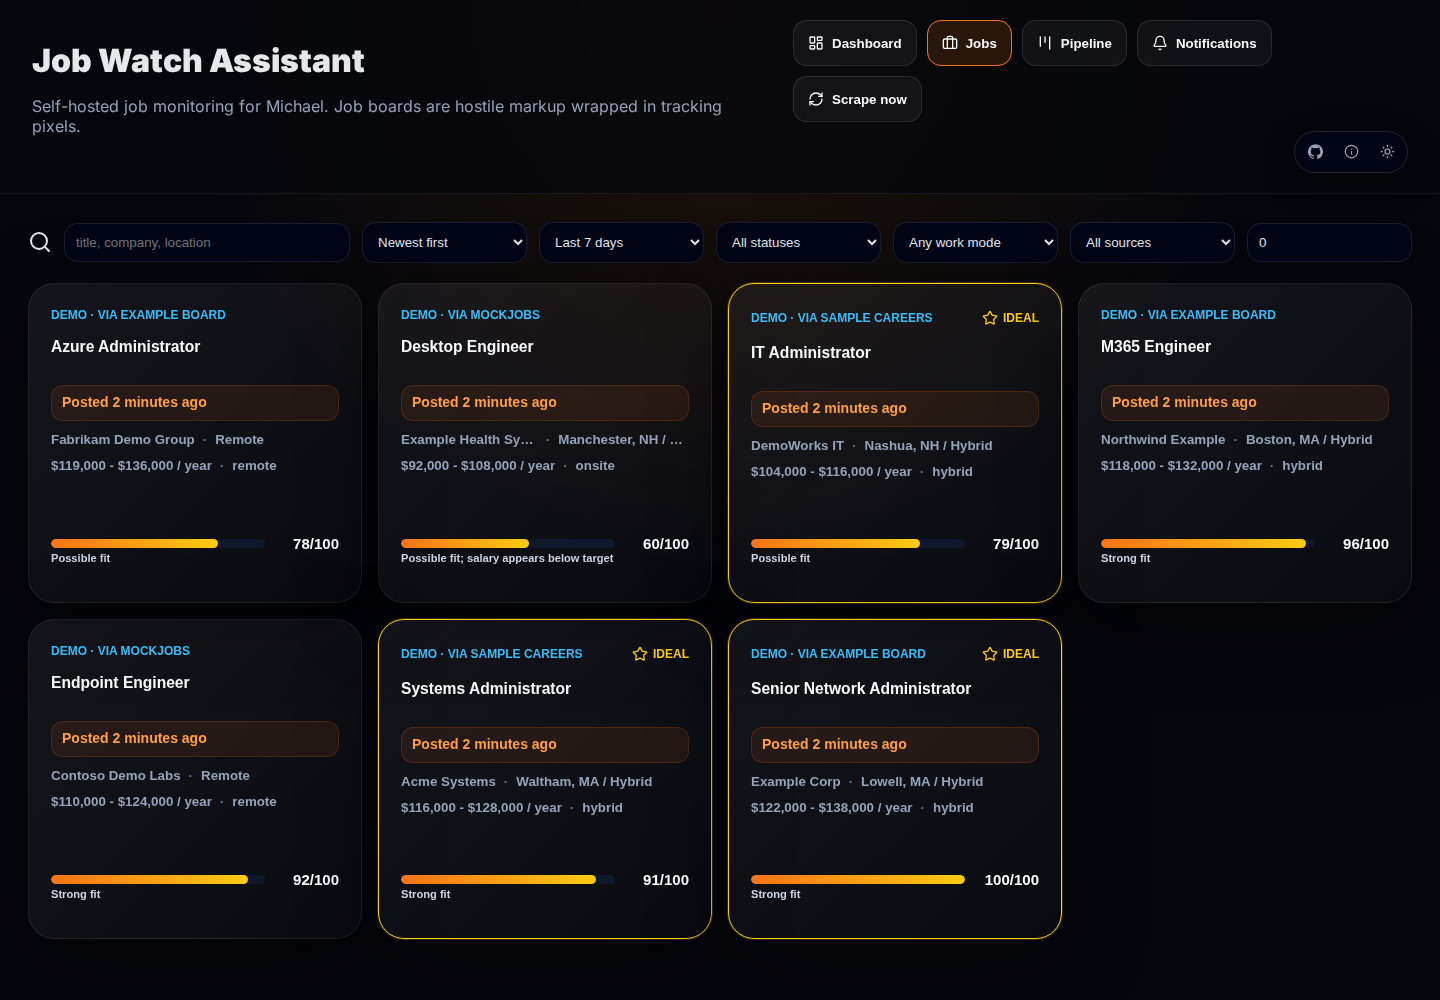
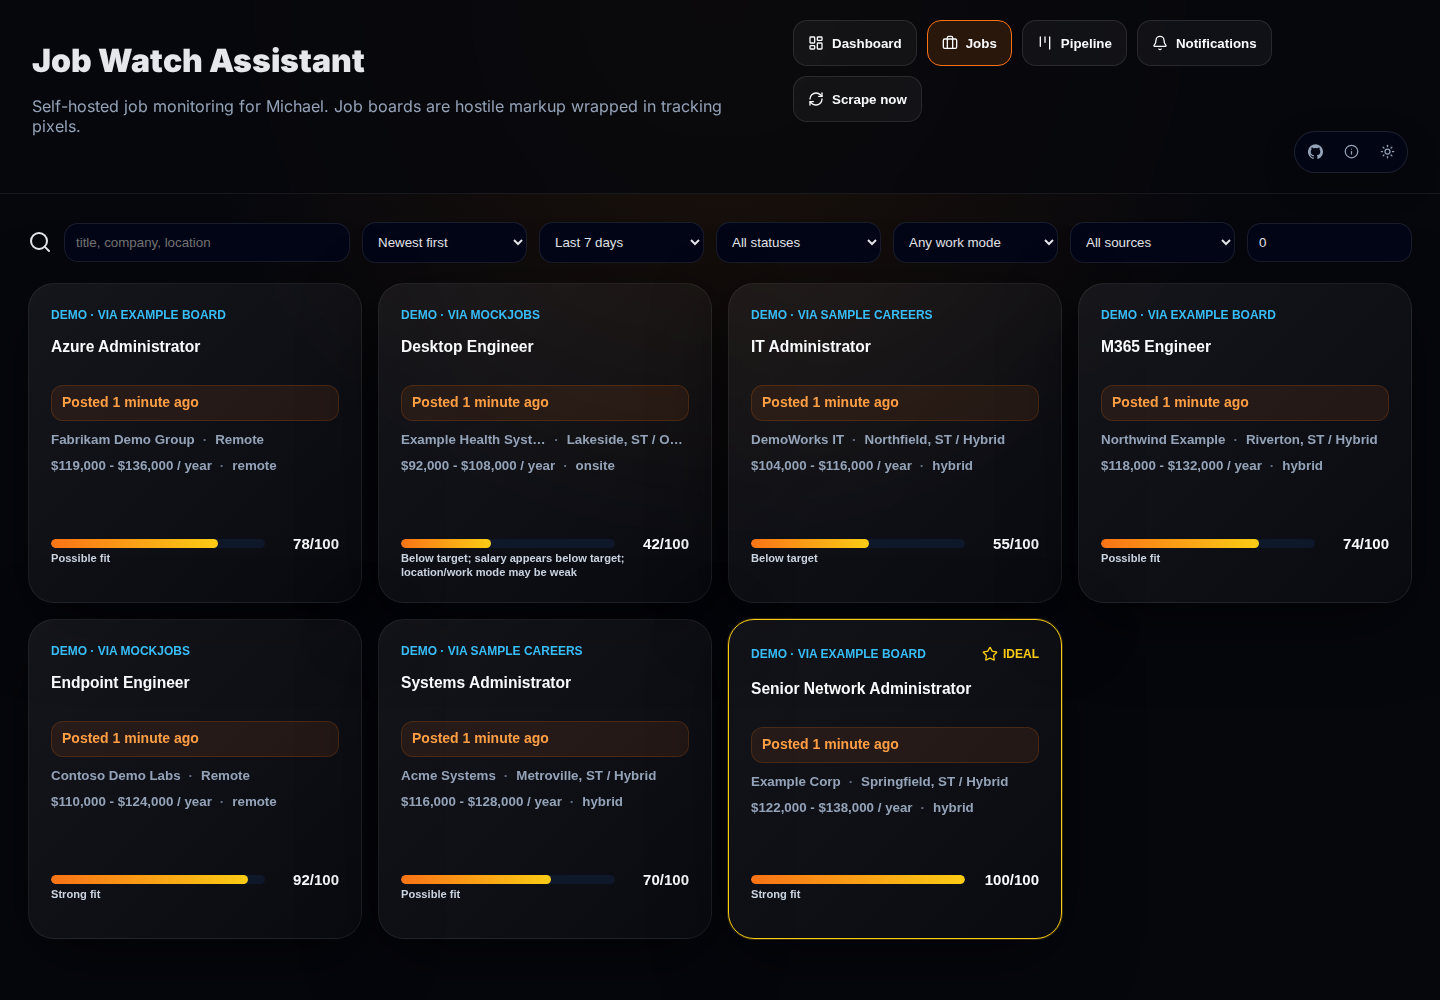
Scrub location references and render README screenshots

diff --git a/frontend/src/main.jsx b/frontend/src/main.jsx
@@ -13,7 +13,7 @@ function useSuiteTheme(){const[theme,setThemeState]=useState(()=>localStorage.ge
 function GithubMark(){return <svg viewBox="0 0 24 24" aria-hidden="true"><path fill="currentColor" d="M12 .5a12 12 0 0 0-3.79 23.39c.6.11.82-.26.82-.58v-2.03c-3.34.73-4.04-1.61-4.04-1.61-.55-1.39-1.34-1.76-1.34-1.76-1.09-.75.08-.73.08-.73 1.2.08 1.84 1.24 1.84 1.24 1.07 1.83 2.81 1.3 3.5.99.11-.78.42-1.3.76-1.6-2.67-.31-5.47-1.34-5.47-5.94 0-1.31.47-2.38 1.24-3.22-.12-.3-.54-1.53.12-3.18 0 0 1.01-.32 3.3 1.23a11.5 11.5 0 0 1 6 0c2.28-1.55 3.29-1.23 3.29-1.23.66 1.65.24 2.88.12 3.18.77.84 1.23 1.91 1.23 3.22 0 4.61-2.8 5.63-5.48 5.93.43.37.81 1.1.81 2.22v3.29c0 .32.22.69.83.57A12 12 0 0 0 12 .5Z" /></svg>}
 function SuiteIconBar({theme,setTheme,setAboutOpen,repoUrl}){return <div className="suite-iconbar" aria-label="Application links"><a className="suite-icon" href={repoUrl} target="_blank" rel="noreferrer" aria-label="GitHub repository" title="GitHub"><GithubMark/></a><button className="suite-icon" type="button" onClick={()=>setAboutOpen(true)} aria-label="About" title="About"><Info/></button><button className="suite-icon" type="button" onClick={setTheme} aria-label="Toggle theme" title="Toggle theme">{theme==='dark'?<Sun/>:<Moon/>}</button></div>}
 function AboutModal({name,version,description,onClose}){return <div className="suite-modal-backdrop" role="dialog" aria-modal="true" aria-label={`About ${name}`} onClick={onClose}><div className="suite-modal" onClick={e=>e.stopPropagation()}><button className="suite-modal-close" type="button" onClick={onClose} aria-label="Close"><X/></button><div className="suite-modal-kicker">About</div><h2>{name}</h2><p className="suite-modal-version">Version {version}</p><p>{description}</p></div></div>}
-function Dashboard({dash,jobs,open}){let data=Object.entries(dash?.score_distribution||{}).map(([name,value])=>({name,value}));return <div className="grid"><section className="hero"><h2>Dashboard</h2><p>Criteria: Lowell MA 50-mile radius, remote nationwide, target $115k-$120k, ideal hybrid within 40 miles with $115k+ and bonus potential. Newest jobs appear first by default.</p><div className="metrics"><Metric l="New today" v={dash?.new_today||0}/><Metric l="Total tracked" v={dash?.total||0}/><Metric l="Applied / active" v={dash?.applied||0}/></div></section><section className="card"><h3>Match score distribution</h3><div className="chart"><ResponsiveContainer><BarChart data={data}><XAxis dataKey="name" stroke="#94a3b8"/><YAxis stroke="#94a3b8"/><Tooltip/><Bar dataKey="value" fill="#f97316" radius={[8,8,0,0]}/></BarChart></ResponsiveContainer></div></section><section><h3>Top recent matches</h3><div className="jobs">{jobs.slice(0,8).map(j=><JobCard key={j.id} j={j} open={open}/>)}</div></section></div>}
+function Dashboard({dash,jobs,open}){let data=Object.entries(dash?.score_distribution||{}).map(([name,value])=>({name,value}));return <div className="grid"><section className="hero"><h2>Dashboard</h2><p>Criteria: configurable metro area and radius, remote nationwide, at/above target salary, and role-fit scoring. Newest jobs appear first by default.</p><div className="metrics"><Metric l="New today" v={dash?.new_today||0}/><Metric l="Total tracked" v={dash?.total||0}/><Metric l="Applied / active" v={dash?.applied||0}/></div></section><section className="card"><h3>Match score distribution</h3><div className="chart"><ResponsiveContainer><BarChart data={data}><XAxis dataKey="name" stroke="#94a3b8"/><YAxis stroke="#94a3b8"/><Tooltip/><Bar dataKey="value" fill="#f97316" radius={[8,8,0,0]}/></BarChart></ResponsiveContainer></div></section><section><h3>Top recent matches</h3><div className="jobs">{jobs.slice(0,8).map(j=><JobCard key={j.id} j={j} open={open}/>)}</div></section></div>}
 function Metric({l,v}){return <div className="metric"><b>{v}</b><span>{l}</span></div>}
 function Jobs({jobs,open,filters,setFilters}){return <div><div className="toolbar enhanced"><Search/><input placeholder="title, company, location" value={filters.q} onChange={e=>setFilters({...filters,q:e.target.value})}/><select value={filters.sort} onChange={e=>setFilters({...filters,sort:e.target.value})}>{sorts.map(([v,l])=><option value={v} key={v}>{l}</option>)}</select><select value={filters.date_range} onChange={e=>setFilters({...filters,date_range:e.target.value})}>{dateRanges.map(([v,l])=><option value={v} key={v}>{l}</option>)}</select><select value={filters.status} onChange={e=>setFilters({...filters,status:e.target.value})}><option value="">All statuses</option>{statuses.map(s=><option key={s}>{s}</option>)}</select><select value={filters.remote_type} onChange={e=>setFilters({...filters,remote_type:e.target.value})}><option value="">Any work mode</option>{['remote','hybrid','onsite','unknown'].map(s=><option key={s}>{s}</option>)}</select><select value={filters.source} onChange={e=>setFilters({...filters,source:e.target.value})}><option value="">All sources</option>{['Indeed','LinkedIn','Dice','ZipRecruiter','jsearch','Manual'].map(s=><option key={s}>{s}</option>)}</select><input type="number" min="0" max="100" value={filters.min_score} onChange={e=>setFilters({...filters,min_score:e.target.value})}/></div><div className="jobs">{jobs.map(j=><JobCard key={j.id} j={j} open={open}/>)}</div></div>}
 function sourceLabel(j){const source=String(j.source||'').toUpperCase();return j.publisher?`${source} · via ${j.publisher}`:source}

diff --git a/backend/test_job_logic.py b/backend/test_job_logic.py
@@ -102,7 +102,7 @@ class JobWatchLogicTests(unittest.TestCase):
             "source": "Test",
             "title": "Network Administrator",
             "company": "MRDTech",
-            "location": "Lowell, MA",
+            "location": "Springfield, ST",
             "salary": "$120,000",
             "url": "https://example.com/jobs/123?utm_source=garbage",
             "description": "Azure Intune network systems role",
@@ -134,7 +134,7 @@ class JobWatchLogicTests(unittest.TestCase):
         self.assertEqual(self.count_jobs(), 1)
 
     def test_same_title_company_different_location_is_new_when_url_differs(self):
-        _, first_is_new = main.upsert_job(self.job(url="https://jobs.example/a", location="Lowell, MA"))
+        _, first_is_new = main.upsert_job(self.job(url="https://jobs.example/a", location="Springfield, ST"))
         _, second_is_new = main.upsert_job(self.job(url="https://jobs.example/b", location="Boston, MA"))
 
         self.assertTrue(first_is_new)
@@ -175,7 +175,7 @@ class JobWatchLogicTests(unittest.TestCase):
         with main.connect() as c:
             c.execute(
                 "INSERT INTO jobs(source,title,company,location,fingerprint,first_seen,last_seen,alerted) VALUES(?,?,?,?,?,?,?,0)",
-                ("Seed", "Old Job", "Old Co", "Lowell, MA", "seed-old", main.utcnow(), main.utcnow()),
+                ("Seed", "Old Job", "Old Co", "Springfield, ST", "seed-old", main.utcnow(), main.utcnow()),
             )
         main.init_db()
         with main.connect() as c:
@@ -190,7 +190,7 @@ class JobWatchLogicTests(unittest.TestCase):
             </a>
             <h3 class="base-search-card__title">Network Administrator</h3>
             <h4 class="base-search-card__subtitle"><a href="https://www.linkedin.com/company/acme">Acme Networks</a></h4>
-            <span class="job-search-card__location">Lowell, MA</span>
+            <span class="job-search-card__location">Springfield, ST</span>
             <time datetime="2026-06-10">2 days ago</time>
           </div>
         </li>
@@ -198,7 +198,7 @@ class JobWatchLogicTests(unittest.TestCase):
         jobs = main.parse_linkedin_jobs(sample, "Fallback Title")
         self.assertEqual(jobs[0]["company"], "Acme Networks")
         self.assertEqual(jobs[0]["title"], "Network Administrator")
-        self.assertEqual(jobs[0]["location"], "Lowell, MA")
+        self.assertEqual(jobs[0]["location"], "Springfield, ST")
         self.assertTrue(jobs[0]["posted_at"].startswith("2026-06-10"))
 
     def test_linkedin_parser_falls_back_to_company_slug(self):
@@ -211,7 +211,7 @@ class JobWatchLogicTests(unittest.TestCase):
         with main.connect() as c:
             c.execute(
                 "INSERT INTO jobs(source,title,company,location,fingerprint,first_seen,last_seen,url) VALUES(?,?,?,?,?,?,?,?)",
-                ("LinkedIn", "Endpoint Engineer", "", "Lowell", "li", "2024-01-01", "2024-01-01", "https://www.linkedin.com/jobs/view/endpoint-engineer-at-acme-networks-123456789"),
+                ("LinkedIn", "Endpoint Engineer", "", "Springfield", "li", "2024-01-01", "2024-01-01", "https://www.linkedin.com/jobs/view/endpoint-engineer-at-acme-networks-123456789"),
             )
         self.assertEqual(main.backfill_linkedin_companies(), 1)
         with main.connect() as c:
@@ -234,17 +234,17 @@ class JobWatchLogicTests(unittest.TestCase):
         with main.connect() as c:
             c.execute(
                 "INSERT INTO jobs(source,title,company,location,fingerprint,first_seen,last_seen) VALUES(?,?,?,?,?,?,?)",
-                ("Seed", "Same", "Co", "Lowell", "old", "2024-01-01", "2024-01-01"),
+                ("Seed", "Same", "Co", "Springfield", "old", "2024-01-01", "2024-01-01"),
             )
             c.execute(
                 "INSERT INTO jobs(source,title,company,location,fingerprint,first_seen,last_seen) VALUES(?,?,?,?,?,?,?)",
-                ("Seed", "Same", "Co", "Lowell", "new", "2025-01-01", "2025-01-01"),
+                ("Seed", "Same", "Co", "Springfield", "new", "2025-01-01", "2025-01-01"),
             )
         self.assertEqual(main.dedupe_jobs(), 1)
         with main.connect() as c:
             self.assertEqual(c.execute("SELECT fingerprint FROM jobs WHERE title='Same'").fetchone()[0], "new")
     def test_scoring_varies_by_title_location_salary_and_skills(self):
-        strong = main.score_job(self.job(title="Senior Network Administrator", location="Lowell, MA", salary="$120,000", description="Azure Intune Hyper-V firewall network Active Directory", remote_type="hybrid"))[0]
+        strong = main.score_job(self.job(title="Senior Network Administrator", location="Springfield, ST", salary="$120,000", description="Azure Intune Hyper-V firewall network Active Directory", remote_type="hybrid"))[0]
         weak = main.score_job(self.job(title="Help Desk Technician", location="Worcester, MA", salary="$55,000", description="password resets and tickets", remote_type="onsite", url="https://jobs.example/weak"))[0]
         remote = main.score_job(self.job(title="Endpoint Engineer", location="Remote", salary="$110,000", description="Intune Autopilot Microsoft 365 endpoint security", remote_type="remote", url="https://jobs.example/remote"))[0]
         self.assertNotEqual(strong, weak)
@@ -254,7 +254,7 @@ class JobWatchLogicTests(unittest.TestCase):
 
     def test_jobs_endpoint_defaults_to_last_7_days_newest_first_and_date_labels(self):
         with main.connect() as c:
-            c.execute("INSERT INTO jobs(source,title,company,location,fingerprint,first_seen,last_seen,match_score) VALUES(?,?,?,?,?,?,?,?)", ("Seed", "Old", "Co", "Lowell", "old-filter", "2020-01-01T00:00:00+00:00", "2020-01-01T00:00:00+00:00", 10))
+            c.execute("INSERT INTO jobs(source,title,company,location,fingerprint,first_seen,last_seen,match_score) VALUES(?,?,?,?,?,?,?,?)", ("Seed", "Old", "Co", "Springfield", "old-filter", "2020-01-01T00:00:00+00:00", "2020-01-01T00:00:00+00:00", 10))
         fresh, _ = main.upsert_job(self.job(url="https://jobs.example/fresh"))
         rows = main.jobs()
         self.assertTrue(any(r["id"] == fresh["id"] for r in rows))
@@ -285,8 +285,8 @@ class JobWatchLogicTests(unittest.TestCase):
         raw = {
             "job_title": "Senior Network Administrator",
             "employer_name": "Acme Networks",
-            "job_city": "Lowell",
-            "job_state": "MA",
+            "job_city": "Springfield",
+            "job_state": "ST",
             "job_country": "US",
             "job_min_salary": 115000,
             "job_max_salary": 125000,
@@ -303,23 +303,23 @@ class JobWatchLogicTests(unittest.TestCase):
         self.assertEqual(job["publisher"], "Indeed")
         self.assertEqual(job["title"], "Senior Network Administrator")
         self.assertEqual(job["company"], "Acme Networks")
-        self.assertEqual(job["location"], "Lowell, MA, US")
+        self.assertEqual(job["location"], "Springfield, ST, US")
         self.assertEqual(job["salary"], "$115,000 - $125,000 / year")
         self.assertEqual(job["url"], "https://jobs.example/acme-netadmin")
         self.assertEqual(job["remote_type"], "hybrid")
         self.assertTrue(job["posted_at"].startswith("2026-06-23T12:34:56"))
 
     def test_jsearch_dedupes_against_existing_linkedin_by_title_company_location(self):
-        linkedin, first_is_new = main.upsert_job(self.job(source="LinkedIn", title="Endpoint Engineer", company="Acme", location="Lowell, MA", url="https://linkedin.example/job"))
-        jsearch, second_is_new = main.upsert_job(self.job(source="jsearch", title="Endpoint Engineer", company="Acme", location="Lowell, MA", url="https://jsearch.example/job"))
+        linkedin, first_is_new = main.upsert_job(self.job(source="LinkedIn", title="Endpoint Engineer", company="Acme", location="Springfield, ST", url="https://linkedin.example/job"))
+        jsearch, second_is_new = main.upsert_job(self.job(source="jsearch", title="Endpoint Engineer", company="Acme", location="Springfield, ST", url="https://jsearch.example/job"))
         self.assertTrue(first_is_new)
         self.assertFalse(second_is_new)
         self.assertEqual(linkedin["id"], jsearch["id"])
         self.assertEqual(self.count_jobs(), 1)
 
     def test_existing_row_update_backfills_publisher_without_breaking_dedupe(self):
-        first, first_is_new = main.upsert_job(self.job(source="LinkedIn", title="Systems Administrator", company="Acme", location="Lowell, MA", url="https://linkedin.example/acme"))
-        second, second_is_new = main.upsert_job(self.job(source="jsearch", publisher="Indeed", title="Systems Administrator", company="Acme", location="Lowell, MA", url="https://indeed.example/acme"))
+        first, first_is_new = main.upsert_job(self.job(source="LinkedIn", title="Systems Administrator", company="Acme", location="Springfield, ST", url="https://linkedin.example/acme"))
+        second, second_is_new = main.upsert_job(self.job(source="jsearch", publisher="Indeed", title="Systems Administrator", company="Acme", location="Springfield, ST", url="https://indeed.example/acme"))
         self.assertTrue(first_is_new)
         self.assertFalse(second_is_new)
         self.assertEqual(first["id"], second["id"])
@@ -344,7 +344,7 @@ class JobWatchLogicTests(unittest.TestCase):
         class FakeResponse:
             def raise_for_status(self): pass
             def json(self):
-                return {"data": [{"job_title": "Network Administrator", "employer_name": "Acme", "job_location": "Lowell, MA", "job_apply_link": "https://jobs.example/1", "job_publisher": "Indeed"}]}
+                return {"data": [{"job_title": "Network Administrator", "employer_name": "Acme", "job_location": "Springfield, ST", "job_apply_link": "https://jobs.example/1", "job_publisher": "Indeed"}]}
         with patch.object(main.requests, "get", return_value=FakeResponse()) as get:
             jobs = main.scrape_jsearch("Network Administrator")
         self.assertEqual(len(jobs), 1)
@@ -358,8 +358,8 @@ class JobWatchLogicTests(unittest.TestCase):
         main.JSEARCH_MONTHLY_LIMIT = 200
         main.JSEARCH_ALLOWED_PUBLISHERS = ["Indeed", "Glassdoor", "ZipRecruiter", "CareerBuilder", "Monster"]
         rows = [
-            {"job_title": "Network Administrator", "employer_name": "Acme", "job_location": "Lowell, MA", "job_apply_link": "https://jobs.example/indeed", "job_publisher": "indeed"},
-            {"job_title": "Systems Administrator", "employer_name": "Beta", "job_location": "Lowell, MA", "job_apply_link": "https://jobs.example/linkedin", "job_publisher": "LinkedIn"},
+            {"job_title": "Network Administrator", "employer_name": "Acme", "job_location": "Springfield, ST", "job_apply_link": "https://jobs.example/indeed", "job_publisher": "indeed"},
+            {"job_title": "Systems Administrator", "employer_name": "Beta", "job_location": "Springfield, ST", "job_apply_link": "https://jobs.example/linkedin", "job_publisher": "LinkedIn"},
             {"job_title": "Endpoint Engineer", "employer_name": "Gamma", "job_location": "Remote", "job_apply_link": "https://jobs.example/jobilize", "job_publisher": "Jobilize"},
             {"job_title": "Desktop Engineer", "employer_name": "Delta", "job_location": "Boston, MA", "job_apply_link": "https://jobs.example/whatjobs", "job_publisher": "WhatJobs"},
             {"job_title": "M365 Engineer", "employer_name": "Echo", "job_location": "Remote", "job_apply_link": "https://jobs.example/zip", "job_publisher": "ZipRecruiter"},
@@ -387,8 +387,8 @@ class JobWatchLogicTests(unittest.TestCase):
         main.JSEARCH_PER_SCRAPE_LIMIT = 1
         main.JSEARCH_ALLOWED_PUBLISHERS = ["Indeed", "Glassdoor", "ZipRecruiter", "CareerBuilder", "Monster"]
         rows = [
-            {"job_title": "Network Administrator", "employer_name": "Acme", "job_location": "Lowell, MA", "job_apply_link": "https://jobs.example/indeed", "job_publisher": "Indeed"},
-            {"job_title": "Systems Administrator", "employer_name": "Beta", "job_location": "Lowell, MA", "job_apply_link": "https://jobs.example/linkedin", "job_publisher": "LinkedIn"},
+            {"job_title": "Network Administrator", "employer_name": "Acme", "job_location": "Springfield, ST", "job_apply_link": "https://jobs.example/indeed", "job_publisher": "Indeed"},
+            {"job_title": "Systems Administrator", "employer_name": "Beta", "job_location": "Springfield, ST", "job_apply_link": "https://jobs.example/linkedin", "job_publisher": "LinkedIn"},
             {"job_title": "Endpoint Engineer", "employer_name": "Gamma", "job_location": "Remote", "job_apply_link": "https://jobs.example/talent", "job_publisher": "Talent.com"},
         ]
         class FakeResponse:

diff --git a/backend/main.py b/backend/main.py
@@ -49,6 +49,8 @@ JSEARCH_MONTHLY_LIMIT = int(os.getenv("JSEARCH_MONTHLY_LIMIT", "200"))
 JSEARCH_PER_SCRAPE_LIMIT = int(os.getenv("JSEARCH_PER_SCRAPE_LIMIT", "1"))
 JSEARCH_RAPIDAPI_HOST = os.getenv("JSEARCH_RAPIDAPI_HOST", "jsearch.p.rapidapi.com")
 JSEARCH_SEARCH_URL = f"https://{JSEARCH_RAPIDAPI_HOST}/search-v2"
+SEARCH_LOCATION = os.getenv("SEARCH_LOCATION", "Springfield, ST")
+SEARCH_RADIUS_MILES = int(os.getenv("SEARCH_RADIUS_MILES", "50"))
 JSEARCH_ALLOWED_PUBLISHERS = [
     p.strip() for p in os.getenv(
         "JSEARCH_ALLOWED_PUBLISHERS",
@@ -465,7 +467,7 @@ def infer_remote_type(title="", location="", description="") -> str:
 
 def estimate_distance(location: str) -> int:
     loc = (location or "").lower()
-    if "lowell" in loc:
+    if "springfield" in loc:
         return 0
     near = {
         "chelmsford": 5,
@@ -614,7 +616,7 @@ def score_job(job: dict):
     prompt = (
         "Return JSON only with keys score integer 0-100, summary string, breakdown object, ideal_match boolean. "
         "Score this job for Michael Dziegiel: Senior Network Administrator, 20+ years, Azure, Intune, Hyper-V, endpoint management, SCCM, M365, networking, security, Hyper-V. "
-        "Target salary $115k-$120k. Ideal is hybrid near Lowell MA within 40 miles, $115k+, senior infrastructure/endpoint/network role. "
+        "Target salary is configurable. Ideal is hybrid within the configured commute radius, at/above target salary, senior infrastructure/endpoint/network role. "
         "Use the specific title, location, salary, work mode, and skill overlap. Do not return a generic middle score. "
         "Jobs must produce different scores when title/location/salary/skills differ. Job: " + json.dumps(job, sort_keys=True)[:7000]
     )
@@ -719,7 +721,7 @@ def extract_linkedin_title(card_html: str, fallback: str) -> str:
 
 def extract_linkedin_location(card_html: str) -> str:
     m = re.search(r'<span[^>]*class=["\'][^"\']*job-search-card__location[^"\']*["\'][^>]*>(?P<value>.*?)</span>', card_html or "", re.S | re.I)
-    return clean_text(m.group("value")) if m else "Lowell MA / Remote"
+    return clean_text(m.group("value")) if m else f"{SEARCH_LOCATION} / Remote"
 
 
 
@@ -893,7 +895,7 @@ def scrape_jsearch(title: str):
     if not jsearch_can_request():
         return []
     headers = {"X-RapidAPI-Key": JSEARCH_RAPIDAPI_KEY, "X-RapidAPI-Host": JSEARCH_RAPIDAPI_HOST}
-    params = {"query": f"{title} in Lowell, MA", "num_pages": "1", "country": "us", "date_posted": "week"}
+    params = {"query": f"{title} in {SEARCH_LOCATION}", "num_pages": "1", "country": "us", "date_posted": "week"}
     try:
         r = requests.get(JSEARCH_SEARCH_URL, headers=headers, params=params, timeout=25)
         jsearch_record_request(1)
@@ -928,7 +930,8 @@ def scrape_jsearch(title: str):
 
 def scrape_linkedin(title: str):
     q = urllib.parse.quote(title)
-    url = f"https://www.linkedin.com/jobs/search?keywords={q}&location=Lowell%2C%20Massachusetts%2C%20United%20States&distance=50"
+    loc = urllib.parse.quote(SEARCH_LOCATION)
+    url = f"https://www.linkedin.com/jobs/search?keywords={q}&location={loc}&distance={SEARCH_RADIUS_MILES}"
     try:
         return parse_linkedin_jobs(fetch(url), title)[:15]
     except Exception:
@@ -937,7 +940,8 @@ def scrape_linkedin(title: str):
 
 def scrape_dice(title: str):
     q = urllib.parse.quote(title)
-    url = f"https://www.dice.com/jobs?q={q}&location=Lowell,%20MA&radius=50&radiusUnit=mi&page=1&pageSize=20"
+    loc = urllib.parse.quote(SEARCH_LOCATION)
+    url = f"https://www.dice.com/jobs?q={q}&location={loc}&radius={SEARCH_RADIUS_MILES}&radiusUnit=mi&page=1&pageSize=20"
     jobs = []
 
     def dice_value(blob: str, key: str) -> str:
@@ -979,12 +983,13 @@ def scrape_dice(title: str):
 
 def scrape_ziprecruiter(title: str):
     q = urllib.parse.quote(title)
-    url = f"https://www.ziprecruiter.com/jobs-search?search={q}&location=Lowell%2C+MA&radius=50"
+    loc = urllib.parse.quote_plus(SEARCH_LOCATION)
+    url = f"https://www.ziprecruiter.com/jobs-search?search={q}&location={loc}&radius={SEARCH_RADIUS_MILES}"
     jobs = []
     try:
         text = fetch(url)
         for m in re.finditer(r'<a[^>]+href="(?P<url>https://www\.ziprecruiter\.com/[^"#]+)"[^>]*>(?P<title>[^<]{5,120})</a>', text, re.S):
-            jobs.append({"source": "ZipRecruiter", "title": clean_text(m.group("title")), "company": "", "location": "Lowell MA / Remote", "salary": "", "url": m.group("url"), "description": "ZipRecruiter public listing", "remote_type": "unknown"})
+            jobs.append({"source": "ZipRecruiter", "title": clean_text(m.group("title")), "company": "", "location": f"{SEARCH_LOCATION} / Remote", "salary": "", "url": m.group("url"), "description": "ZipRecruiter public listing", "remote_type": "unknown"})
     except Exception:
         pass
     return jobs[:15]
@@ -993,7 +998,7 @@ def scrape_ziprecruiter(title: str):
 def scrape_indeed_mcp(title: str):
     jobs = []
     try:
-        payload = {"jsonrpc": "2.0", "id": 1, "method": "tools/call", "params": {"name": "search_jobs", "arguments": {"query": title, "location": "Lowell, MA", "radius": 50, "remote": True}}}
+        payload = {"jsonrpc": "2.0", "id": 1, "method": "tools/call", "params": {"name": "search_jobs", "arguments": {"query": title, "location": SEARCH_LOCATION, "radius": SEARCH_RADIUS_MILES, "remote": True}}}
         r = requests.post(INDEED_MCP_URL, json=payload, headers={"Accept": "application/json"}, timeout=25)
         if r.ok:
             data = r.json()

diff --git a/README.md b/README.md
@@ -5,7 +5,7 @@ Self-hosted job monitoring and alerting for Michael Dziegiel's senior infrastruc
 ## Search criteria
 
 - Titles: Network Administrator, Systems Administrator, IT Administrator, Endpoint Engineer, Desktop Engineer, M365 Engineer
-- Location: Lowell MA, 50 mile radius
+- Location: configurable metro area, radius set in profile
 - Fully remote positions nationwide
 - Target salary: at/above target salary range
 - Ideal match: hybrid within target commute range, at/above target salary, bonus potential
@@ -39,12 +39,26 @@ Self-hosted job monitoring and alerting for Michael Dziegiel's senior infrastruc
 
 ## Screenshots
 
-Place screenshots here after first production deployment:
 
-- `screenshots/dashboard.png`
-- `screenshots/jobs.png`
-- `screenshots/job-detail.png`
-- `screenshots/kanban.png`
+
+![Dashboard](screenshots/dashboard.png)
+
+
+
+
+![Jobs](screenshots/jobs.png)
+
+
+
+
+![Job Detail](screenshots/job-detail.png)
+
+
+
+
+![Kanban Pipeline](screenshots/kanban.png)
+
+
 
 ## Docker quickstart
 
